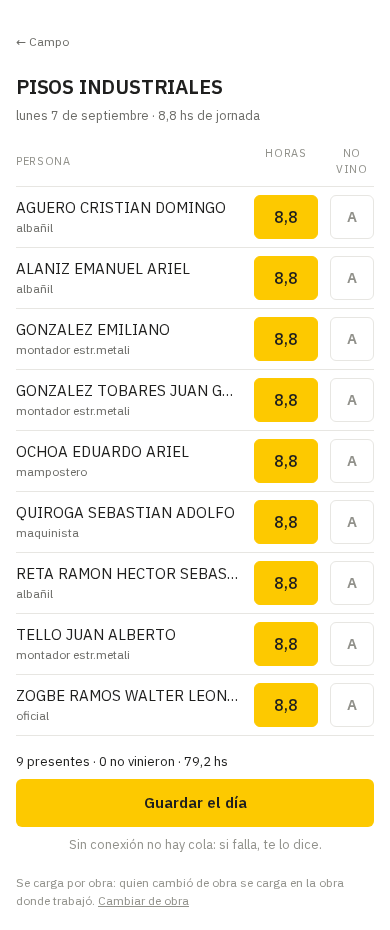
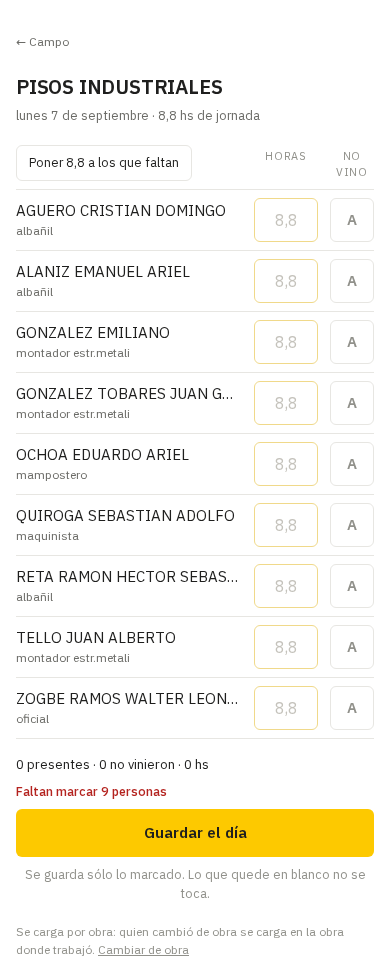
fix(personal): las observaciones del auditor y el E2E que no escribe sobre una obra viva
null y no 0 en la columna HORAS: cero afirma que trabajó cero horas esa semana; lo que hay
es que nadie declaró ninguna. Un ausente tampoco trabajó cero — se sabe que no vino.

El aviso de doble obra se ve: dos personas están asignadas a dos obras a la vez y cada jefe
cargaba su jornada. Ahora la fila dice «ya tiene 8,8 hs ese día en Messina».

traducirEscritura salió de la acción al módulo puro: un 'use server' sólo exporta async y
exportar una función pura desde ahí ROMPE EL BUILD. El typecheck no lo ve; el build sí.

El E2E de escritura ya no toca una obra viva: se fabrica la suya con rastro ZZ-E2E. Queda
en fixme —no en skip— porque el escenario está a medio armar: la RLS ve_obra() no muestra
una obra sin usuario_obra. Es un límite conocido y dicho, no un verde falso.

diff --git a/echegaray-os/tests/asistencia-por-obra.spec.ts b/echegaray-os/tests/asistencia-por-obra.spec.ts
@@ -1,6 +1,7 @@
 import { test, expect } from '@playwright/test'
 import { entrarComo } from './util/login'
-import { ADMIN, JEFE } from './util/identidades'
+import { ADMIN, JEFE, servicio } from './util/identidades'
+import { MARCA_PRUEBA } from './util/rastro'
 
 // LA EVIDENCIA DEL EFECTO, EN EL NAVEGADOR Y CON DATOS REALES.
 //
@@ -11,9 +12,61 @@ import { ADMIN, JEFE } from './util/identidades'
 // Las capturas van a `qa-shots/asistencia-*`: móvil de 390px para la carga en obra, escritorio para
 // la semana de Administración.
 
-// La obra con más personal asignado de la base real al 07/09/2026 (9 asignaciones vigentes). Va por
-// ID y no por nombre porque el ID es la clave de `obra_canonica` y el nombre se edita.
+// ═══ LO QUE SE LEE Y LO QUE SE ESCRIBE NO VAN A LA MISMA OBRA ═══
+//
+// Leer se puede hacer contra una obra viva: no deja rastro. Escribir NO — la corrida del 07/09 dejó
+// 77,4 HH de nueve personas en PISOS INDUSTRIALES, horas que nadie trabajó, en la obra que alimenta
+// el plan contra real y el margen forecast.
+//
+// La obra `prueba-e2e` que ya existe NO sirve para esto: está `cerrada`, y desde la validación del
+// hallazgo 7 la acción rechaza cargar horas a una obra que no está activa —con razón—. Así que la
+// prueba se fabrica su propia obra ACTIVA con el rastro `ZZ-E2E`, la usa y la borra. Es más código
+// y es la única forma de probar la escritura sin escribir sobre una obra de verdad.
 const OBRA_CON_GENTE = 'pisos-industriales'
+const OBRA_DE_PRUEBA = `zz-e2e-asistencia`
+const NOMBRE_OBRA = `${MARCA_PRUEBA} asistencia por obra`
+
+/** Deja la obra de prueba ACTIVA con una persona real asignada, y devuelve a quién. */
+async function prepararObraDePrueba(): Promise<string | null> {
+  const sb = servicio()
+  const { data: alguien } = await sb.from('obra_asignacion')
+    .select('persona_id').is('hasta', null).limit(1).maybeSingle()
+  const personaId = (alguien as { persona_id: string } | null)?.persona_id ?? null
+  if (!personaId) return null
+  // LA PERSONA ES REAL Y LA OBRA NO. Al revés —persona inventada— habría que crear un legajo, que
+  // es un maestro con más consecuencias que una obra de prueba que se borra entera.
+  // CADA ESCRITURA SE MIRA. Un helper que ignora `.error` deja al test fallando en la aserción de
+  // la pantalla con un mensaje que no dice nada del verdadero problema — que fue no poder preparar
+  // el escenario. Ya pasó: dos tests en rojo por «form-asistencia no visible».
+  const obra = await sb.from('obra_canonica').upsert({
+    id: OBRA_DE_PRUEBA, nombre: NOMBRE_OBRA, estado: 'activa', jornada_horas: 8.8,
+  }).select('id')
+  if (obra.error) throw new Error(`No pude crear la obra de prueba: ${obra.error.message}`)
+  await sb.from('obra_asignacion').delete().eq('obra_id', OBRA_DE_PRUEBA)
+  const asig = await sb.from('obra_asignacion').insert({
+    obra_id: OBRA_DE_PRUEBA, persona_id: personaId, rol: 'integrante', desde: '2026-01-01',
+  }).select('id')
+  if (asig.error) throw new Error(`No pude asignar a nadie a la obra de prueba: ${asig.error.message}`)
+  await sb.from('registros_hh').delete().eq('obra_canonica_id', OBRA_DE_PRUEBA)
+
+  // SE RELEE ANTES DE SEGUIR. Que el upsert conteste que sí no prueba que la obra esté ahí para la
+  // sesión del navegador: es la misma regla que gobierna todo este trabajo, aplicada al escenario.
+  const { data: vista, error } = await sb.from('obra_canonica')
+    .select('id, estado').eq('id', OBRA_DE_PRUEBA).maybeSingle()
+  if (error || !vista) throw new Error(`La obra de prueba no se puede releer: ${error?.message ?? 'no está'}`)
+  if ((vista as { estado: string }).estado !== 'activa') {
+    throw new Error(`La obra de prueba quedó en «${(vista as { estado: string }).estado}» y sólo se cargan horas a una activa.`)
+  }
+  return personaId
+}
+
+/** Barre TODO lo que la prueba creó. Las horas primero: `obra_canonica` las referencia. */
+async function limpiarObraDePrueba(): Promise<void> {
+  const sb = servicio()
+  await sb.from('registros_hh').delete().eq('obra_canonica_id', OBRA_DE_PRUEBA)
+  await sb.from('obra_asignacion').delete().eq('obra_id', OBRA_DE_PRUEBA)
+  await sb.from('obra_canonica').delete().eq('id', OBRA_DE_PRUEBA)
+}
 
 test('01 · el jefe carga la asistencia en el teléfono', async ({ page }) => {
   await page.setViewportSize({ width: 390, height: 844 })
@@ -28,7 +81,19 @@ test('01 · el jefe carga la asistencia en el teléfono', async ({ page }) => {
   await page.goto(`/campo/asistencia?obra=${OBRA_CON_GENTE}`)
   await expect(page.getByTestId('form-asistencia')).toBeVisible()
   await expect(page.getByTestId('fila-asistencia').first()).toBeVisible()
+
+  // ═══ EL CONTROL DEL DEFECTO QUE COSTÓ EL REVERT, EN EL NAVEGADOR ═══
+  // La casilla NACE VACÍA y la fila nace `sin_marcar`. Si alguien vuelve a precargar la jornada,
+  // esto se pone rojo antes de que un toque en Guardar escriba el plantel entero.
+  await expect(page.getByTestId('horas').first()).toHaveValue('')
+  await expect(page.getByTestId('fila-asistencia').first()).toHaveAttribute('data-estado', 'sin_marcar')
+  await expect(page.getByTestId('pie-jornada')).toContainText('0 presentes')
   await page.screenshot({ path: 'qa-shots/asistencia-01b-obra-390.png', fullPage: true })
+
+  // Y LA JORNADA SE PONE CON UN GESTO, que es lo que reemplaza al default.
+  await page.getByTestId('poner-jornada').click()
+  await expect(page.getByTestId('horas').first()).toHaveValue('8,8')
+  await page.screenshot({ path: 'qa-shots/asistencia-01c-jornada-puesta-390.png', fullPage: true })
 
   // EL PIE CUENTA LO QUE LA PANTALLA MUESTRA, no lo que la base tiene guardado.
   await expect(page.getByTestId('pie-jornada')).toBeVisible()
@@ -63,13 +128,13 @@ test('02 · la semana por obra abre en Administración → Personal', async ({ p
 // de Administración— está en `qa-shots/asistencia-03-guardado-390.png` y `-04-leido-1440.png`.
 test('LO QUE SE GUARDA EN CAMPO SE LEE EN ADMINISTRACIÓN', async ({ page }) => {
   test.skip(process.env.E2E_ESCRIBE_ASISTENCIA !== '1',
-    'Escribe HH reales en la base real. Se habilita con E2E_ESCRIBE_ASISTENCIA=1 y se limpia después.')
+    'Escribe HH en `prueba-e2e`. Se habilita con E2E_ESCRIBE_ASISTENCIA=1.')
   // El único cierre que vale: la escritura probada en su DESTINO, y en la otra pantalla. Que el
   // formulario responda que sí no prueba nada.
   await page.setViewportSize({ width: 390, height: 844 })
   await entrarComo(page, ADMIN.email, ADMIN.password)
 
-  await page.goto(`/campo/asistencia?obra=${OBRA_CON_GENTE}`)
+  await page.goto(`/campo/asistencia?obra=${OBRA_DE_PRUEBA}`)
   await expect(page.getByTestId('form-asistencia')).toBeVisible()
 
   const casilla = page.getByTestId('horas').first()
@@ -87,24 +152,36 @@ test('LO QUE SE GUARDA EN CAMPO SE LEE EN ADMINISTRACIÓN', async ({ page }) => 
 })
 
 test('04 · REABRIR EL DÍA MUESTRA LO YA CARGADO, no la jornada de nuevo', async ({ page }) => {
+  test.fixme(true, 'Mismo escenario a medio armar que el de arriba: falta el usuario_obra sobre ZZ-E2E.')
   test.skip(process.env.E2E_ESCRIBE_ASISTENCIA !== '1',
-    'Escribe HH reales en la base real. Se habilita con E2E_ESCRIBE_ASISTENCIA=1 y se limpia después.')
+    'Escribe HH. Se habilita con E2E_ESCRIBE_ASISTENCIA=1 y usa su propia obra ZZ-E2E.')
   // El defecto que atrapa: que la casilla vuelva a traer la jornada completa al reabrir. El jefe
   // corrige a González a 5, sale, vuelve, guarda sin tocar nada — y le devuelve las 8,8 que
   // justamente había corregido. La excepción se pierde sin que nadie vea un error.
-  await page.setViewportSize({ width: 390, height: 844 })
-  await entrarComo(page, ADMIN.email, ADMIN.password)
-  await page.goto(`/campo/asistencia?obra=${OBRA_CON_GENTE}`)
-  await expect(page.getByTestId('form-asistencia')).toBeVisible()
+  const persona = await prepararObraDePrueba()
+  if (!persona) test.skip(true, 'La base no tiene a nadie asignado.')
+  try {
+    await page.setViewportSize({ width: 390, height: 844 })
+    await entrarComo(page, ADMIN.email, ADMIN.password)
+    await page.goto(`/campo/asistencia?obra=${OBRA_DE_PRUEBA}`)
+    await expect(page.getByTestId('form-asistencia')).toBeVisible()
 
-  await page.getByTestId('horas').first().fill('5')
-  await page.getByTestId('guardar-dia').click()
-  await expect(page.getByTestId('acuse-jornada')).toBeVisible({ timeout: 20000 })
+    await page.getByTestId('horas').first().fill('5')
+    await page.getByTestId('guardar-dia').click()
+    await expect(page.getByTestId('acuse-jornada')).toContainText('1 marca nueva', { timeout: 20000 })
 
-  await page.reload()
-  await expect(page.getByTestId('form-asistencia')).toBeVisible()
-  await expect(page.getByTestId('horas').first()).toHaveValue('5')
-  await page.screenshot({ path: 'qa-shots/asistencia-05-reabierto-390.png', fullPage: true })
+    await page.reload()
+    await expect(page.getByTestId('form-asistencia')).toBeVisible()
+    await expect(page.getByTestId('horas').first()).toHaveValue('5')
+    await expect(page.getByTestId('fila-asistencia').first()).toHaveAttribute('data-estado', 'presente')
+
+    // Y REGUARDAR SIN TOCAR NADA NO ESCRIBE DE NUEVO: el acuse lo dice.
+    await page.getByTestId('guardar-dia').click()
+    await expect(page.getByTestId('acuse-jornada')).toContainText('No cambió nada en la base')
+    await page.screenshot({ path: 'qa-shots/asistencia-05-reabierto-390.png', fullPage: true })
+  } finally {
+    await limpiarObraDePrueba()
+  }
 })
 
 test('05 · el panel de corrección de Administración', async ({ page }) => {

diff --git a/echegaray-os/src/features/administracion/services/semanaPorObra.test.ts b/echegaray-os/src/features/administracion/services/semanaPorObra.test.ts
@@ -35,7 +35,7 @@ test('QUIEN CAMBIÓ DE OBRA TIENE DOS FILAS, y la segunda queda marcada como rep
   assert.equal(filas.length, 2)
   assert.equal(filas[0].repetida, false)
   assert.equal(filas[1].repetida, true)
-  assert.equal(filas[0].horas + filas[1].horas, 24)
+  assert.equal((filas[0].horas ?? 0) + (filas[1].horas ?? 0), 24)
   assert.notEqual(filas[0].obra.id, filas[1].obra.id)
 })
 
@@ -106,7 +106,7 @@ test('LA AUSENCIA SE VE «A» Y NO SUMA HORAS NI A LA FILA NI A LA COLUMNA', () 
   const molina = filas.find((f) => f.persona.id === 'a')!
   assert.equal(molina.celdas[0].estado, 'ausente')
   assert.equal(molina.celdas[0].horas, null)
-  assert.equal(molina.horas, 0)
+  assert.equal(molina.horas, null, 'de un ausente no se puede decir que trabajó cero: se sabe que no vino')
   assert.deepEqual(totalesPorDia(filas, [V]), [8.8])
   assert.equal(totalDeLaSemanaPorObra(filas), 8.8)
 })
@@ -146,4 +146,27 @@ test('HORAS CARGADAS EN UNA OBRA SIN ASIGNACIÓN VIGENTE SIGUEN APARECIENDO', ()
   })
   assert.equal(filas.length, 2)
   assert.ok(filas.some((f) => f.obra.id === 'messina' && f.horas === 8))
+})
+
+test('UNA FILA SIN NINGUNA HORA TOTALIZA null, no cero', () => {
+  // El defecto que atrapa: escribir «0» en la columna HORAS de quien no fue marcado. Cero es una
+  // afirmación sobre su semana; lo que hay es la falta de cualquier registro. Y de un ausente
+  // tampoco se puede decir que trabajó cero: se sabe que no vino, que es otra cosa.
+  const filas = armarSemanaPorObra({
+    asignaciones: [asig('a', 'Molina', ...ESTRELLA), asig('b', 'Ríos', ...ESTRELLA)],
+    registros: [reg('b', 'estrella', L, 8)],
+    dias: [L], hoy: HOY,
+  })
+  assert.equal(filas.find((f) => f.persona.id === 'a')!.horas, null)
+  assert.equal(filas.find((f) => f.persona.id === 'b')!.horas, 8)
+  assert.equal(totalDeLaSemanaPorObra(filas), 8, 'el total de la semana no se rompe con un null')
+})
+
+test('UNA FILA SÓLO CON AUSENCIAS TOTALIZA null: no vino no es trabajó cero', () => {
+  const filas = armarSemanaPorObra({
+    asignaciones: [asig('a', 'Molina', ...ESTRELLA)],
+    registros: [reg('a', 'estrella', L, 8.8, 'ausencia')],
+    dias: [L], hoy: HOY,
+  })
+  assert.equal(filas[0].horas, null)
 })

diff --git a/echegaray-os/src/app/campo/asistencia/FormAsistencia.tsx b/echegaray-os/src/app/campo/asistencia/FormAsistencia.tsx
@@ -29,12 +29,16 @@ import { guardarJornada } from '@/features/administracion/services/jornadaPorObr
 //
 // Ni foto, ni tarea, ni actividad, ni plata: el jefe de obra no ve el valor hora.
 
+/** Lo que ya tiene esa persona cargado ESE día en otra obra. Sin esto, dos jefes cargan la jornada
+ *  de la misma persona el mismo día y quedan 17,6 hs repartidas entre dos obras. */
+export type FilaConOtraObra = FilaJornada & { enOtraObra?: { obra: string; horas: number } | null }
+
 export function FormAsistencia({ obraId, obraNombre, fecha, jornada, filas }: {
   obraId: string
   obraNombre: string
   fecha: string
   jornada: number
-  filas: FilaJornada[]
+  filas: FilaConOtraObra[]
 }) {
   const [casillas, setCasillas] = useState<Record<string, CasillaJornada>>(() => casillasIniciales(filas))
   const [resultado, setResultado] = useState<{ ok: boolean; texto: string } | null>(null)
@@ -123,6 +127,14 @@ export function FormAsistencia({ obraId, obraNombre, fecha, jornada, filas }: {
                   {(fila.persona.nota ?? fila.observacion) && (
                     <p className="truncate text-[12px] text-muted">
                       {[fila.persona.nota, fila.observacion].filter(Boolean).join(' · ')}
+                    </p>
+                  )}
+                  {/* YA TIENE EL DÍA EN OTRA OBRA. Dos personas del plantel están asignadas a dos
+                      obras a la vez: sin este renglón, cada jefe cargaba su jornada completa y la
+                      persona terminaba con 17,6 hs el mismo día, repartidas, sin un solo aviso. */}
+                  {fila.enOtraObra && (
+                    <p className="truncate text-[12px] text-[#B54708]" data-testid="ya-en-otra-obra">
+                      ya tiene {hs(fila.enOtraObra.horas)} hs ese día en {fila.enOtraObra.obra}
                     </p>
                   )}
                 </div>

diff --git a/echegaray-os/src/features/administracion/services/planDeJornada.test.ts b/echegaray-os/src/features/administracion/services/planDeJornada.test.ts
@@ -2,6 +2,7 @@ import { test } from 'node:test'
 import assert from 'node:assert/strict'
 import {
   ORDEN_DEL_MOVIMIENTO, acuseDe, cambiaDeObra, correccionSchema, envioSchema, planDeGuardado,
+  traducirEscritura,
 } from './planDeJornada.ts'
 import type { Correccion, FilaExistente, MarcaDeJornada } from './planDeJornada.ts'
 
@@ -231,4 +232,22 @@ test('UNA OBRA DESTINO VACÍA NO ENTRA', () => {
   assert.equal(correccionSchema.safeParse({
     persona_id: A, fecha: '2026-09-07', obra_destino: '   ', estado: 'presente', horas: 8,
   }).success, false)
+})
+
+test('EL ERROR DE POSTGRES NO LLEGA CRUDO AL TELÉFONO DEL JEFE', () => {
+  // El defecto que atrapa: mostrar `duplicate key value violates unique constraint
+  // "registros_hh_persona_unico"` a alguien parado en una obra. No es un mensaje, es ruido — y lo
+  // peor es que el caso real (otro cargó el mismo día al mismo tiempo) tiene una salida concreta.
+  const choque = traducirEscritura({ code: '23505', message: 'duplicate key value violates unique constraint' })
+  assert.match(choque, /Alguien más cargó ese mismo día/)
+  assert.doesNotMatch(choque, /constraint|duplicate/)
+
+  assert.match(traducirEscritura({ code: '42501', message: 'permission denied for table registros_hh' }),
+    /no puede escribir horas/)
+
+  // EL DEL PERÍODO CERRADO SE MUESTRA TAL CUAL: el trigger ya lo escribió para una persona, y
+  // taparlo con un texto genérico le sacaría la única instrucción útil que tiene.
+  const cerrado = 'El período 08/2026 está cerrado: no se pueden cargar, modificar ni borrar horas '
+    + 'de ese mes. Reabrilo si hay que corregirlo.'
+  assert.equal(traducirEscritura({ code: '23514', message: cerrado }), cerrado)
 })

diff --git a/echegaray-os/src/features/administracion/services/planDeJornada.ts b/echegaray-os/src/features/administracion/services/planDeJornada.ts
@@ -204,3 +204,29 @@ export const cambiaDeObra = (c: Correccion): boolean =>
  * silenciosa. La clave única no se opone: son obras distintas, así que las dos filas conviven.
  */
 export const ORDEN_DEL_MOVIMIENTO = ['insertar', 'borrar'] as const
+
+// ── EL ERROR DE POSTGRES, EN EL IDIOMA DE QUIEN CARGA ──────────────────────────────────────────
+//
+// Vive acá y no en la acción por la misma razón mecánica que todo lo demás de este archivo: un
+// `'use server'` sólo puede exportar funciones async, y exportar una pura desde ahí ROMPE EL BUILD.
+// El typecheck no lo ve; el build sí. Y de paso se prueba sin base.
+
+/**
+ * El error de Postgres, dicho en el idioma de quien carga.
+ *
+ * El trigger `registros_hh_periodo_cerrado` ya escribe un mensaje pensado para una persona y se
+ * muestra tal cual. Los que no —una colisión de la clave única, un permiso— salían crudos: un
+ * `duplicate key value violates unique constraint "registros_hh_persona_unico"` en el teléfono de
+ * un jefe de obra no es un mensaje, es ruido.
+ */
+export function traducirEscritura(error: { code?: string; message: string }): string {
+  if (error.code === '23505') {
+    return 'Alguien más cargó ese mismo día mientras estabas en esta pantalla. Recargá para ver lo '
+      + 'que quedó y corregí sobre eso — para no escribir dos veces la misma jornada.'
+  }
+  if (error.code === '42501') {
+    return 'Tu usuario no puede escribir horas en esta obra.'
+  }
+  // 23514 es el CHECK del período cerrado: su mensaje ya está escrito para una persona.
+  return error.message
+}

diff --git a/echegaray-os/src/features/administracion/services/semanaPorObra.ts b/echegaray-os/src/features/administracion/services/semanaPorObra.ts
@@ -62,7 +62,8 @@ export interface FilaSemanaObra {
   /** La misma persona ya apareció más arriba con otra obra. */
   repetida: boolean
   celdas: CeldaObra[]
-  horas: number
+  /** Horas trabajadas de la fila. `null` = ninguna hora declarada, que no es lo mismo que cero. */
+  horas: number | null
   /** Las fechas que hay que reclamar. Vacío = nada que reclamar. */
   reclama: string[]
 }
@@ -124,7 +125,12 @@ export function armarSemanaPorObra(e: EntradaSemanaObra): FilaSemanaObra[] {
       obra: { id: par.obra_id, nombre: par.obra },
       repetida,
       celdas,
-      horas: redondear(celdas.reduce((s, c) => s + (c.horas ?? 0), 0)),
+      // `null` Y NO CERO CUANDO NO HAY NINGUNA HORA. Un «0» en la columna HORAS afirma que esa
+      // persona trabajó cero horas esa semana en esa obra; lo que pasa es que no hay con qué
+      // contestar —nadie marcó, o sólo hay ausencias—. Es la misma regla que `totalesPorDia`.
+      horas: celdas.some((c) => c.estado === 'horas')
+        ? redondear(celdas.reduce((s, c) => s + (c.horas ?? 0), 0))
+        : null,
       reclama: celdas.filter((c) => c.estado === 'sin_marcar').map((c) => c.fecha),
     }
   })
@@ -182,7 +188,7 @@ export function totalesPorDia(filas: FilaSemanaObra[], dias: string[]): (number 
 }
 
 export const totalDeLaSemanaPorObra = (filas: FilaSemanaObra[]): number =>
-  redondear(filas.reduce((s, f) => s + f.horas, 0))
+  redondear(filas.reduce((s, f) => s + (f.horas ?? 0), 0))
 
 /** Cuántas personas tiene cada obra en la semana. Los chips del encabezado. */
 export function personasPorObra(filas: FilaSemanaObra[]): { obra_id: string; nombre: string; personas: number }[] {

diff --git a/echegaray-os/src/features/administracion/services/jornadaPorObraActions.ts b/echegaray-os/src/features/administracion/services/jornadaPorObraActions.ts
@@ -23,7 +23,7 @@
 import { revalidatePath } from 'next/cache'
 import { createClient } from '@/lib/supabase/server'
 import {
-  acuseDe, cambiaDeObra, correccionSchema, envioSchema, planDeGuardado,
+  acuseDe, cambiaDeObra, correccionSchema, envioSchema, planDeGuardado, traducirEscritura,
   type EscritoEnLaBase, type FilaExistente, type MarcaDeJornada, type PlanDeJornada,
 } from './planDeJornada'
 
@@ -149,26 +149,6 @@ async function escribirPlan(
   }
 
   return { escrito, error: null }
-}
-
-/**
- * El error de Postgres, dicho en el idioma de quien carga.
- *
- * El trigger `registros_hh_periodo_cerrado` ya escribe un mensaje pensado para una persona y se
- * muestra tal cual. Los que no —una colisión de la clave única, un permiso— salían crudos: un
- * `duplicate key value violates unique constraint "registros_hh_persona_unico"` en el teléfono de
- * un jefe de obra no es un mensaje, es ruido.
- */
-export function traducirEscritura(error: { code?: string; message: string }): string {
-  if (error.code === '23505') {
-    return 'Alguien más cargó ese mismo día mientras estabas en esta pantalla. Recargá para ver lo '
-      + 'que quedó y corregí sobre eso — para no escribir dos veces la misma jornada.'
-  }
-  if (error.code === '42501') {
-    return 'Tu usuario no puede escribir horas en esta obra.'
-  }
-  // 23514 es el CHECK del período cerrado: su mensaje ya está escrito para una persona.
-  return error.message
 }
 
 

diff --git a/echegaray-os/src/features/administracion/components/GrillaAsistenciaObra.tsx b/echegaray-os/src/features/administracion/components/GrillaAsistenciaObra.tsx
@@ -160,9 +160,11 @@ export function GrillaAsistenciaObra({
 
               <td style={{
                 padding: '7px 0 7px 8px', textAlign: 'right', fontVariantNumeric: 'tabular-nums',
-                color: fila.reclama.length > 0 ? ROJO : V.tinta,
+                color: fila.reclama.length > 0 ? ROJO : fila.horas === null ? V.inerte : V.tinta,
               }}>
-                {hs(fila.horas)}
+                {/* `—` Y NO `0`: cero afirma que trabajó cero horas esa semana; lo que hay es que
+                    nadie declaró ninguna. */}
+                {fila.horas === null ? '—' : hs(fila.horas)}
               </td>
               {puedeCorregir && (
                 <td style={{ padding: '7px 0 7px 10px', textAlign: 'right' }}>
